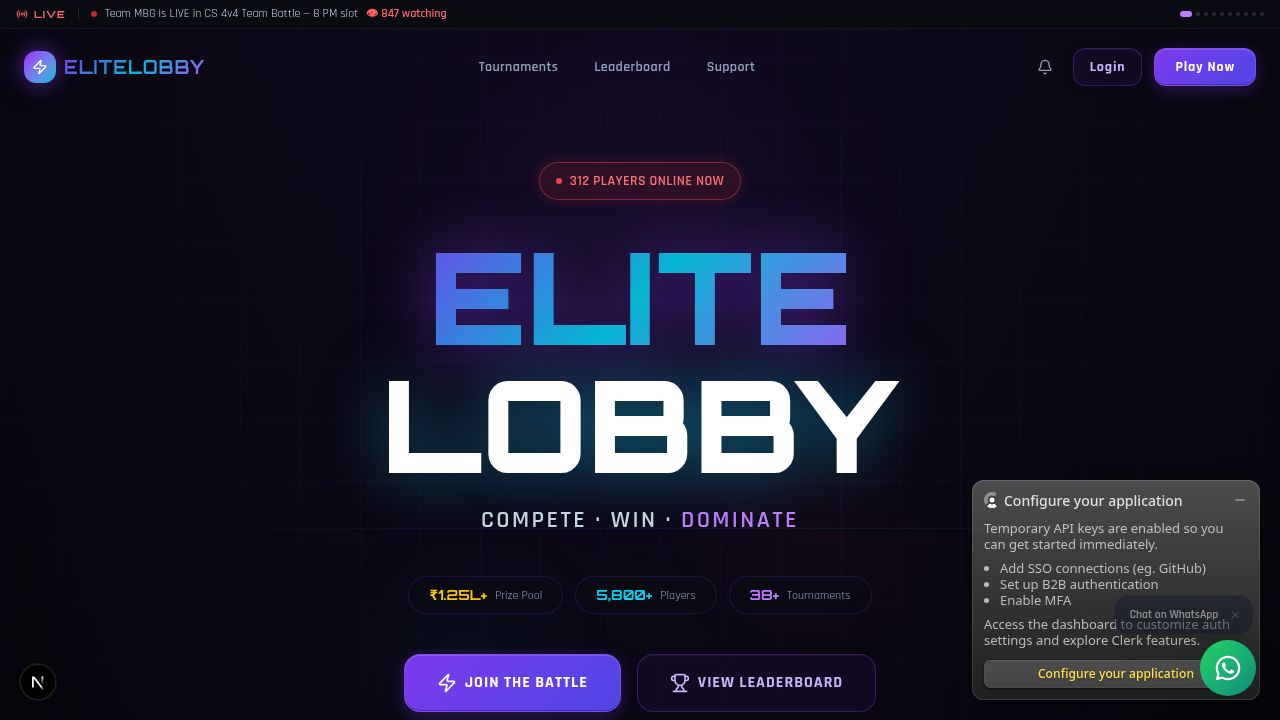
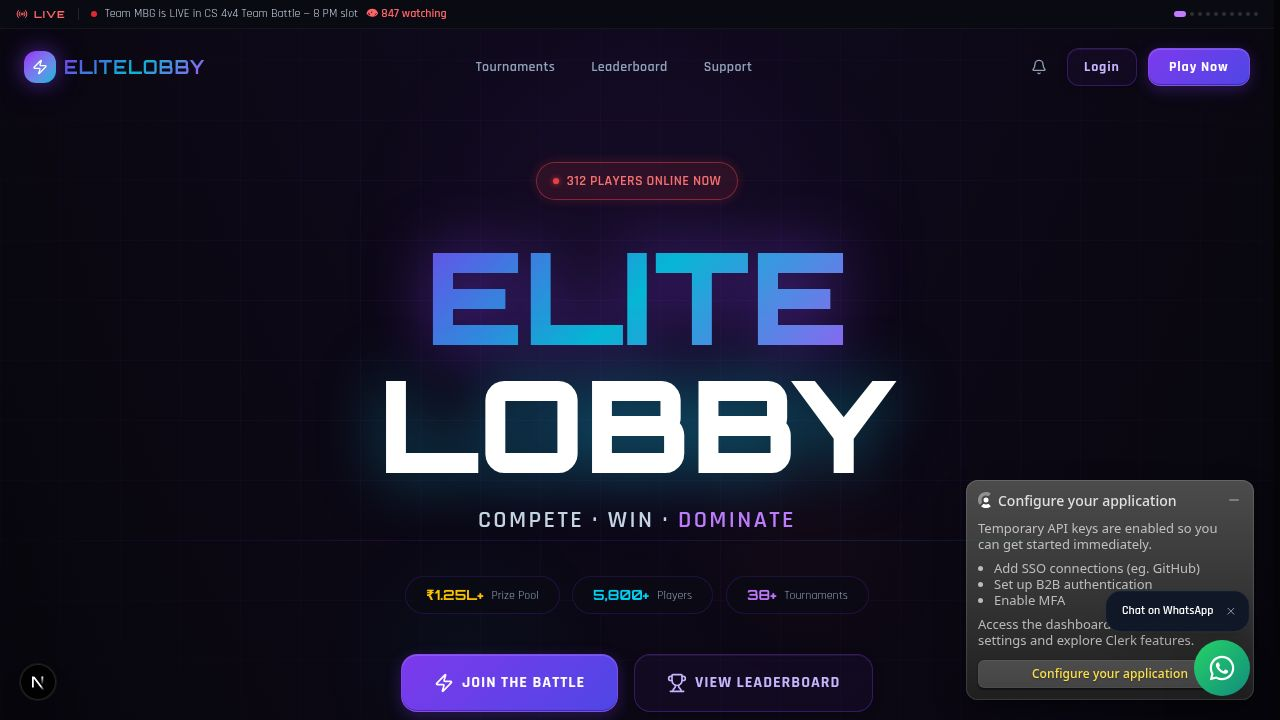
Add a persistent bottom navigation bar with key app sections for mobile users
Removes server-side rendering of unused pages and updates server-side manifest files.

Replit-Commit-Author: Agent
Replit-Commit-Session-Id: f050e24c-d75c-4edb-9f63-7216cc354795
Replit-Commit-Checkpoint-Type: full_checkpoint
Replit-Commit-Event-Id: fd430f37-7e8a-46cd-8ed4-a9f75d9d4e83
Replit-Commit-Screenshot-Url: https://storage.googleapis.com/screenshot-production-us-central1/df9c4afa-6ff7-4396-b7aa-3a1f8a4a83df/f050e24c-d75c-4edb-9f63-7216cc354795/bnQpBMk
Replit-Helium-Checkpoint-Created: true

diff --git a/artifacts/web/.next/server/server-reference-manifest.js b/artifacts/web/.next/server/server-reference-manifest.js
@@ -1,1 +1,1 @@
-self.__RSC_SERVER_MANIFEST="{\n  \"node\": {\n    \"7f4809fc73ec7cae5c56634f16dd6d4afdc243bc9e\": {\n      \"workers\": {\n        \"app/auth/login/[[...login]]/page\": {\n          \"moduleId\": \"[project]/artifacts/web/.next-internal/server/app/auth/login/[[...login]]/page/actions.js { ACTIONS_MODULE0 => \\\"[project]/node_modules/.pnpm/@clerk+nextjs@7.4.0_next@15.5.18_react-dom@19.1.0_react@19.1.0__react@19.1.0__react-dom_410bba7e288442c0eec23071dc87d257/node_modules/@clerk/nextjs/dist/esm/app-router/keyless-actions.js [app-rsc] (ecmascript)\\\", ACTIONS_MODULE1 => \\\"[project]/node_modules/.pnpm/@clerk+nextjs@7.4.0_next@15.5.18_react-dom@19.1.0_react@19.1.0__react@19.1.0__react-dom_410bba7e288442c0eec23071dc87d257/node_modules/@clerk/nextjs/dist/esm/app-router/server-actions.js [app-rsc] (ecmascript)\\\" } [app-rsc] (server actions loader, ecmascript)\",\n          \"async\": false,\n          \"exportedName\": \"createOrReadKeylessAction\",\n          \"filename\": \"node_modules/.pnpm/@clerk+nextjs@7.4.0_next@15.5.18_react-dom@19.1.0_react@19.1.0__react@19.1.0__react-dom_410bba7e288442c0eec23071dc87d257/node_modules/@clerk/nextjs/dist/esm/app-router/keyless-actions.js\"\n        },\n        \"app/page\": {\n          \"moduleId\": \"[project]/artifacts/web/.next-internal/server/app/page/actions.js { ACTIONS_MODULE0 => \\\"[project]/node_modules/.pnpm/@clerk+nextjs@7.4.0_next@15.5.18_react-dom@19.1.0_react@19.1.0__react@19.1.0__react-dom_410bba7e288442c0eec23071dc87d257/node_modules/@clerk/nextjs/dist/esm/app-router/keyless-actions.js [app-rsc] (ecmascript)\\\", ACTIONS_MODULE1 => \\\"[project]/node_modules/.pnpm/@clerk+nextjs@7.4.0_next@15.5.18_react-dom@19.1.0_react@19.1.0__react@19.1.0__react-dom_410bba7e288442c0eec23071dc87d257/node_modules/@clerk/nextjs/dist/esm/app-router/server-actions.js [app-rsc] (ecmascript)\\\" } [app-rsc] (server actions loader, ecmascript)\",\n          \"async\": false,\n          \"exportedName\": \"createOrReadKeylessAction\",\n          \"filename\": \"node_modules/.pnpm/@clerk+nextjs@7.4.0_next@15.5.18_react-dom@19.1.0_react@19.1.0__react@19.1.0__react-dom_410bba7e288442c0eec23071dc87d257/node_modules/@clerk/nextjs/dist/esm/app-router/keyless-actions.js\"\n        },\n        \"app/tournaments/page\": {\n          \"moduleId\": \"[project]/artifacts/web/.next-internal/server/app/tournaments/page/actions.js { ACTIONS_MODULE0 => \\\"[project]/node_modules/.pnpm/@clerk+nextjs@7.4.0_next@15.5.18_react-dom@19.1.0_react@19.1.0__react@19.1.0__react-dom_410bba7e288442c0eec23071dc87d257/node_modules/@clerk/nextjs/dist/esm/app-router/keyless-actions.js [app-rsc] (ecmascript)\\\", ACTIONS_MODULE1 => \\\"[project]/node_modules/.pnpm/@clerk+nextjs@7.4.0_next@15.5.18_react-dom@19.1.0_react@19.1.0__react@19.1.0__react-dom_410bba7e288442c0eec23071dc87d257/node_modules/@clerk/nextjs/dist/esm/app-router/server-actions.js [app-rsc] (ecmascript)\\\" } [app-rsc] (server actions loader, ecmascript)\",\n          \"async\": false,\n          \"exportedName\": \"createOrReadKeylessAction\",\n          \"filename\": \"node_modules/.pnpm/@clerk+nextjs@7.4.0_next@15.5.18_react-dom@19.1.0_react@19.1.0__react@19.1.0__react-dom_410bba7e288442c0eec23071dc87d257/node_modules/@clerk/nextjs/dist/esm/app-router/keyless-actions.js\"\n        }\n      },\n      \"layer\": {\n        \"app/auth/login/[[...login]]/page\": \"action-browser\",\n        \"app/page\": \"action-browser\",\n        \"app/tournaments/page\": \"action-browser\"\n      },\n      \"filename\": \"node_modules/.pnpm/@clerk+nextjs@7.4.0_next@15.5.18_react-dom@19.1.0_react@19.1.0__react@19.1.0__react-dom_410bba7e288442c0eec23071dc87d257/node_modules/@clerk/nextjs/dist/esm/app-router/keyless-actions.js\",\n      \"exportedName\": \"createOrReadKeylessAction\"\n    },\n    \"7f63631ff6cd411d6e5171b1f541bad9819fe227dc\": {\n      \"workers\": {\n        \"app/auth/login/[[...login]]/page\": {\n          \"moduleId\": \"[project]/artifacts/web/.next-internal/server/app/auth/login/[[...login]]/page/actions.js { ACTIONS_MODULE0 => \\\"[project]/node_modules/.pnpm/@clerk+nextjs@7.4.0_next@15.5.18_react-dom@19.1.0_react@19.1.0__react@19.1.0__react-dom_410bba7e288442c0eec23071dc87d257/node_modules/@clerk/nextjs/dist/esm/app-router/keyless-actions.js [app-rsc] (ecmascript)\\\", ACTIONS_MODULE1 => \\\"[project]/node_modules/.pnpm/@clerk+nextjs@7.4.0_next@15.5.18_react-dom@19.1.0_react@19.1.0__react@19.1.0__react-dom_410bba7e288442c0eec23071dc87d257/node_modules/@clerk/nextjs/dist/esm/app-router/server-actions.js [app-rsc] (ecmascript)\\\" } [app-rsc] (server actions loader, ecmascript)\",\n          \"async\": false,\n          \"exportedName\": \"deleteKeylessAction\",\n          \"filename\": \"node_modules/.pnpm/@clerk+nextjs@7.4.0_next@15.5.18_react-dom@19.1.0_react@19.1.0__react@19.1.0__react-dom_410bba7e288442c0eec23071dc87d257/node_modules/@clerk/nextjs/dist/esm/app-router/keyless-actions.js\"\n        },\n        \"app/page\": {\n          \"moduleId\": \"[project]/artifacts/web/.next-internal/server/app/page/actions.js { ACTIONS_MODULE0 => \\\"[project]/node_modules/.pnpm/@clerk+nextjs@7.4.0_next@15.5.18_react-dom@19.1.0_react@19.1.0__react@19.1.0__react-dom_410bba7e288442c0eec23071dc87d257/node_modules/@clerk/nextjs/dist/esm/app-router/keyless-actions.js [app-rsc] (ecmascript)\\\", ACTIONS_MODULE1 => \\\"[project]/node_modules/.pnpm/@clerk+nextjs@7.4.0_next@15.5.18_react-dom@19.1.0_react@19.1.0__react@19.1.0__react-dom_410bba7e288442c0eec23071dc87d257/node_modules/@clerk/nextjs/dist/esm/app-router/server-actions.js [app-rsc] (ecmascript)\\\" } [app-rsc] (server actions loader, ecmascript)\",\n          \"async\": false,\n          \"exportedName\": \"deleteKeylessAction\",\n          \"filename\": \"node_modules/.pnpm/@clerk+nextjs@7.4.0_next@15.5.18_react-dom@19.1.0_react@19.1.0__react@19.1.0__react-dom_410bba7e288442c0eec23071dc87d257/node_modules/@clerk/nextjs/dist/esm/app-router/keyless-actions.js\"\n        },\n        \"app/tournaments/page\": {\n          \"moduleId\": \"[project]/artifacts/web/.next-internal/server/app/tournaments/page/actions.js { ACTIONS_MODULE0 => \\\"[project]/node_modules/.pnpm/@clerk+nextjs@7.4.0_next@15.5.18_react-dom@19.1.0_react@19.1.0__react@19.1.0__react-dom_410bba7e288442c0eec23071dc87d257/node_modules/@clerk/nextjs/dist/esm/app-router/keyless-actions.js [app-rsc] (ecmascript)\\\", ACTIONS_MODULE1 => \\\"[project]/node_modules/.pnpm/@clerk+nextjs@7.4.0_next@15.5.18_react-dom@19.1.0_react@19.1.0__react@19.1.0__react-dom_410bba7e288442c0eec23071dc87d257/node_modules/@clerk/nextjs/dist/esm/app-router/server-actions.js [app-rsc] (ecmascript)\\\" } [app-rsc] (server actions loader, ecmascript)\",\n          \"async\": false,\n          \"exportedName\": \"deleteKeylessAction\",\n          \"filename\": \"node_modules/.pnpm/@clerk+nextjs@7.4.0_next@15.5.18_react-dom@19.1.0_react@19.1.0__react@19.1.0__react-dom_410bba7e288442c0eec23071dc87d257/node_modules/@clerk/nextjs/dist/esm/app-router/keyless-actions.js\"\n        }\n      },\n      \"layer\": {\n        \"app/auth/login/[[...login]]/page\": \"action-browser\",\n        \"app/page\": \"action-browser\",\n        \"app/tournaments/page\": \"action-browser\"\n      },\n      \"filename\": \"node_modules/.pnpm/@clerk+nextjs@7.4.0_next@15.5.18_react-dom@19.1.0_react@19.1.0__react@19.1.0__react-dom_410bba7e288442c0eec23071dc87d257/node_modules/@clerk/nextjs/dist/esm/app-router/keyless-actions.js\",\n      \"exportedName\": \"deleteKeylessAction\"\n    },\n    \"7f7070300340fbf8c9468fd7e1e9e2011878105c48\": {\n      \"workers\": {\n        \"app/auth/login/[[...login]]/page\": {\n          \"moduleId\": \"[project]/artifacts/web/.next-internal/server/app/auth/login/[[...login]]/page/actions.js { ACTIONS_MODULE0 => \\\"[project]/node_modules/.pnpm/@clerk+nextjs@7.4.0_next@15.5.18_react-dom@19.1.0_react@19.1.0__react@19.1.0__react-dom_410bba7e288442c0eec23071dc87d257/node_modules/@clerk/nextjs/dist/esm/app-router/keyless-actions.js [app-rsc] (ecmascript)\\\", ACTIONS_MODULE1 => \\\"[project]/node_modules/.pnpm/@clerk+nextjs@7.4.0_next@15.5.18_react-dom@19.1.0_react@19.1.0__react@19.1.0__react-dom_410bba7e288442c0eec23071dc87d257/node_modules/@clerk/nextjs/dist/esm/app-router/server-actions.js [app-rsc] (ecmascript)\\\" } [app-rsc] (server actions loader, ecmascript)\",\n          \"async\": false,\n          \"exportedName\": \"syncKeylessConfigAction\",\n          \"filename\": \"node_modules/.pnpm/@clerk+nextjs@7.4.0_next@15.5.18_react-dom@19.1.0_react@19.1.0__react@19.1.0__react-dom_410bba7e288442c0eec23071dc87d257/node_modules/@clerk/nextjs/dist/esm/app-router/keyless-actions.js\"\n        },\n        \"app/page\": {\n          \"moduleId\": \"[project]/artifacts/web/.next-internal/server/app/page/actions.js { ACTIONS_MODULE0 => \\\"[project]/node_modules/.pnpm/@clerk+nextjs@7.4.0_next@15.5.18_react-dom@19.1.0_react@19.1.0__react@19.1.0__react-dom_410bba7e288442c0eec23071dc87d257/node_modules/@clerk/nextjs/dist/esm/app-router/keyless-actions.js [app-rsc] (ecmascript)\\\", ACTIONS_MODULE1 => \\\"[project]/node_modules/.pnpm/@clerk+nextjs@7.4.0_next@15.5.18_react-dom@19.1.0_react@19.1.0__react@19.1.0__react-dom_410bba7e288442c0eec23071dc87d257/node_modules/@clerk/nextjs/dist/esm/app-router/server-actions.js [app-rsc] (ecmascript)\\\" } [app-rsc] (server actions loader, ecmascript)\",\n          \"async\": false,\n          \"exportedName\": \"syncKeylessConfigAction\",\n          \"filename\": \"node_modules/.pnpm/@clerk+nextjs@7.4.0_next@15.5.18_react-dom@19.1.0_react@19.1.0__react@19.1.0__react-dom_410bba7e288442c0eec23071dc87d257/node_modules/@clerk/nextjs/dist/esm/app-router/keyless-actions.js\"\n        },\n        \"app/tournaments/page\": {\n          \"moduleId\": \"[project]/artifacts/web/.next-internal/server/app/tournaments/page/actions.js { ACTIONS_MODULE0 => \\\"[project]/node_modules/.pnpm/@clerk+nextjs@7.4.0_next@15.5.18_react-dom@19.1.0_react@19.1.0__react@19.1.0__react-dom_410bba7e288442c0eec23071dc87d257/node_modules/@clerk/nextjs/dist/esm/app-router/keyless-actions.js [app-rsc] (ecmascript)\\\", ACTIONS_MODULE1 => \\\"[project]/node_modules/.pnpm/@clerk+nextjs@7.4.0_next@15.5.18_react-dom@19.1.0_react@19.1.0__react@19.1.0__react-dom_410bba7e288442c0eec23071dc87d257/node_modules/@clerk/nextjs/dist/esm/app-router/server-actions.js [app-rsc] (ecmascript)\\\" } [app-rsc] (server actions loader, ecmascript)\",\n          \"async\": false,\n          \"exportedName\": \"syncKeylessConfigAction\",\n          \"filename\": \"node_modules/.pnpm/@clerk+nextjs@7.4.0_next@15.5.18_react-dom@19.1.0_react@19.1.0__react@19.1.0__react-dom_410bba7e288442c0eec23071dc87d257/node_modules/@clerk/nextjs/dist/esm/app-router/keyless-actions.js\"\n        }\n      },\n      \"layer\": {\n        \"app/auth/login/[[...login]]/page\": \"action-browser\",\n        \"app/page\": \"action-browser\",\n        \"app/tournaments/page\": \"action-browser\"\n      },\n      \"filename\": \"node_modules/.pnpm/@clerk+nextjs@7.4.0_next@15.5.18_react-dom@19.1.0_react@19.1.0__react@19.1.0__react-dom_410bba7e288442c0eec23071dc87d257/node_modules/@clerk/nextjs/dist/esm/app-router/keyless-actions.js\",\n      \"exportedName\": \"syncKeylessConfigAction\"\n    },\n    \"7fafc7a8a5be1ca584322e0f37894600148fbf4460\": {\n      \"workers\": {\n        \"app/auth/login/[[...login]]/page\": {\n          \"moduleId\": \"[project]/artifacts/web/.next-internal/server/app/auth/login/[[...login]]/page/actions.js { ACTIONS_MODULE0 => \\\"[project]/node_modules/.pnpm/@clerk+nextjs@7.4.0_next@15.5.18_react-dom@19.1.0_react@19.1.0__react@19.1.0__react-dom_410bba7e288442c0eec23071dc87d257/node_modules/@clerk/nextjs/dist/esm/app-router/keyless-actions.js [app-rsc] (ecmascript)\\\", ACTIONS_MODULE1 => \\\"[project]/node_modules/.pnpm/@clerk+nextjs@7.4.0_next@15.5.18_react-dom@19.1.0_react@19.1.0__react@19.1.0__react-dom_410bba7e288442c0eec23071dc87d257/node_modules/@clerk/nextjs/dist/esm/app-router/server-actions.js [app-rsc] (ecmascript)\\\" } [app-rsc] (server actions loader, ecmascript)\",\n          \"async\": false,\n          \"exportedName\": \"invalidateCacheAction\",\n          \"filename\": \"node_modules/.pnpm/@clerk+nextjs@7.4.0_next@15.5.18_react-dom@19.1.0_react@19.1.0__react@19.1.0__react-dom_410bba7e288442c0eec23071dc87d257/node_modules/@clerk/nextjs/dist/esm/app-router/server-actions.js\"\n        },\n        \"app/page\": {\n          \"moduleId\": \"[project]/artifacts/web/.next-internal/server/app/page/actions.js { ACTIONS_MODULE0 => \\\"[project]/node_modules/.pnpm/@clerk+nextjs@7.4.0_next@15.5.18_react-dom@19.1.0_react@19.1.0__react@19.1.0__react-dom_410bba7e288442c0eec23071dc87d257/node_modules/@clerk/nextjs/dist/esm/app-router/keyless-actions.js [app-rsc] (ecmascript)\\\", ACTIONS_MODULE1 => \\\"[project]/node_modules/.pnpm/@clerk+nextjs@7.4.0_next@15.5.18_react-dom@19.1.0_react@19.1.0__react@19.1.0__react-dom_410bba7e288442c0eec23071dc87d257/node_modules/@clerk/nextjs/dist/esm/app-router/server-actions.js [app-rsc] (ecmascript)\\\" } [app-rsc] (server actions loader, ecmascript)\",\n          \"async\": false,\n          \"exportedName\": \"invalidateCacheAction\",\n          \"filename\": \"node_modules/.pnpm/@clerk+nextjs@7.4.0_next@15.5.18_react-dom@19.1.0_react@19.1.0__react@19.1.0__react-dom_410bba7e288442c0eec23071dc87d257/node_modules/@clerk/nextjs/dist/esm/app-router/server-actions.js\"\n        },\n        \"app/tournaments/page\": {\n          \"moduleId\": \"[project]/artifacts/web/.next-internal/server/app/tournaments/page/actions.js { ACTIONS_MODULE0 => \\\"[project]/node_modules/.pnpm/@clerk+nextjs@7.4.0_next@15.5.18_react-dom@19.1.0_react@19.1.0__react@19.1.0__react-dom_410bba7e288442c0eec23071dc87d257/node_modules/@clerk/nextjs/dist/esm/app-router/keyless-actions.js [app-rsc] (ecmascript)\\\", ACTIONS_MODULE1 => \\\"[project]/node_modules/.pnpm/@clerk+nextjs@7.4.0_next@15.5.18_react-dom@19.1.0_react@19.1.0__react@19.1.0__react-dom_410bba7e288442c0eec23071dc87d257/node_modules/@clerk/nextjs/dist/esm/app-router/server-actions.js [app-rsc] (ecmascript)\\\" } [app-rsc] (server actions loader, ecmascript)\",\n          \"async\": false,\n          \"exportedName\": \"invalidateCacheAction\",\n          \"filename\": \"node_modules/.pnpm/@clerk+nextjs@7.4.0_next@15.5.18_react-dom@19.1.0_react@19.1.0__react@19.1.0__react-dom_410bba7e288442c0eec23071dc87d257/node_modules/@clerk/nextjs/dist/esm/app-router/server-actions.js\"\n        }\n      },\n      \"layer\": {\n        \"app/auth/login/[[...login]]/page\": \"action-browser\",\n        \"app/page\": \"action-browser\",\n        \"app/tournaments/page\": \"action-browser\"\n      },\n      \"filename\": \"node_modules/.pnpm/@clerk+nextjs@7.4.0_next@15.5.18_react-dom@19.1.0_react@19.1.0__react@19.1.0__react-dom_410bba7e288442c0eec23071dc87d257/node_modules/@clerk/nextjs/dist/esm/app-router/server-actions.js\",\n      \"exportedName\": \"invalidateCacheAction\"\n    }\n  },\n  \"edge\": {},\n  \"encryptionKey\": \"yDQAT+iw1BmiRHndtIAp7cRz/H0PmOc8cFQJC22c+pw=\"\n}"
+self.__RSC_SERVER_MANIFEST="{\n  \"node\": {\n    \"7f4809fc73ec7cae5c56634f16dd6d4afdc243bc9e\": {\n      \"workers\": {\n        \"app/page\": {\n          \"moduleId\": \"[project]/artifacts/web/.next-internal/server/app/page/actions.js { ACTIONS_MODULE0 => \\\"[project]/node_modules/.pnpm/@clerk+nextjs@7.4.0_next@15.5.18_react-dom@19.1.0_react@19.1.0__react@19.1.0__react-dom_410bba7e288442c0eec23071dc87d257/node_modules/@clerk/nextjs/dist/esm/app-router/keyless-actions.js [app-rsc] (ecmascript)\\\", ACTIONS_MODULE1 => \\\"[project]/node_modules/.pnpm/@clerk+nextjs@7.4.0_next@15.5.18_react-dom@19.1.0_react@19.1.0__react@19.1.0__react-dom_410bba7e288442c0eec23071dc87d257/node_modules/@clerk/nextjs/dist/esm/app-router/server-actions.js [app-rsc] (ecmascript)\\\" } [app-rsc] (server actions loader, ecmascript)\",\n          \"async\": false,\n          \"exportedName\": \"createOrReadKeylessAction\",\n          \"filename\": \"node_modules/.pnpm/@clerk+nextjs@7.4.0_next@15.5.18_react-dom@19.1.0_react@19.1.0__react@19.1.0__react-dom_410bba7e288442c0eec23071dc87d257/node_modules/@clerk/nextjs/dist/esm/app-router/keyless-actions.js\"\n        }\n      },\n      \"layer\": {\n        \"app/page\": \"action-browser\"\n      },\n      \"filename\": \"node_modules/.pnpm/@clerk+nextjs@7.4.0_next@15.5.18_react-dom@19.1.0_react@19.1.0__react@19.1.0__react-dom_410bba7e288442c0eec23071dc87d257/node_modules/@clerk/nextjs/dist/esm/app-router/keyless-actions.js\",\n      \"exportedName\": \"createOrReadKeylessAction\"\n    },\n    \"7f63631ff6cd411d6e5171b1f541bad9819fe227dc\": {\n      \"workers\": {\n        \"app/page\": {\n          \"moduleId\": \"[project]/artifacts/web/.next-internal/server/app/page/actions.js { ACTIONS_MODULE0 => \\\"[project]/node_modules/.pnpm/@clerk+nextjs@7.4.0_next@15.5.18_react-dom@19.1.0_react@19.1.0__react@19.1.0__react-dom_410bba7e288442c0eec23071dc87d257/node_modules/@clerk/nextjs/dist/esm/app-router/keyless-actions.js [app-rsc] (ecmascript)\\\", ACTIONS_MODULE1 => \\\"[project]/node_modules/.pnpm/@clerk+nextjs@7.4.0_next@15.5.18_react-dom@19.1.0_react@19.1.0__react@19.1.0__react-dom_410bba7e288442c0eec23071dc87d257/node_modules/@clerk/nextjs/dist/esm/app-router/server-actions.js [app-rsc] (ecmascript)\\\" } [app-rsc] (server actions loader, ecmascript)\",\n          \"async\": false,\n          \"exportedName\": \"deleteKeylessAction\",\n          \"filename\": \"node_modules/.pnpm/@clerk+nextjs@7.4.0_next@15.5.18_react-dom@19.1.0_react@19.1.0__react@19.1.0__react-dom_410bba7e288442c0eec23071dc87d257/node_modules/@clerk/nextjs/dist/esm/app-router/keyless-actions.js\"\n        }\n      },\n      \"layer\": {\n        \"app/page\": \"action-browser\"\n      },\n      \"filename\": \"node_modules/.pnpm/@clerk+nextjs@7.4.0_next@15.5.18_react-dom@19.1.0_react@19.1.0__react@19.1.0__react-dom_410bba7e288442c0eec23071dc87d257/node_modules/@clerk/nextjs/dist/esm/app-router/keyless-actions.js\",\n      \"exportedName\": \"deleteKeylessAction\"\n    },\n    \"7f7070300340fbf8c9468fd7e1e9e2011878105c48\": {\n      \"workers\": {\n        \"app/page\": {\n          \"moduleId\": \"[project]/artifacts/web/.next-internal/server/app/page/actions.js { ACTIONS_MODULE0 => \\\"[project]/node_modules/.pnpm/@clerk+nextjs@7.4.0_next@15.5.18_react-dom@19.1.0_react@19.1.0__react@19.1.0__react-dom_410bba7e288442c0eec23071dc87d257/node_modules/@clerk/nextjs/dist/esm/app-router/keyless-actions.js [app-rsc] (ecmascript)\\\", ACTIONS_MODULE1 => \\\"[project]/node_modules/.pnpm/@clerk+nextjs@7.4.0_next@15.5.18_react-dom@19.1.0_react@19.1.0__react@19.1.0__react-dom_410bba7e288442c0eec23071dc87d257/node_modules/@clerk/nextjs/dist/esm/app-router/server-actions.js [app-rsc] (ecmascript)\\\" } [app-rsc] (server actions loader, ecmascript)\",\n          \"async\": false,\n          \"exportedName\": \"syncKeylessConfigAction\",\n          \"filename\": \"node_modules/.pnpm/@clerk+nextjs@7.4.0_next@15.5.18_react-dom@19.1.0_react@19.1.0__react@19.1.0__react-dom_410bba7e288442c0eec23071dc87d257/node_modules/@clerk/nextjs/dist/esm/app-router/keyless-actions.js\"\n        }\n      },\n      \"layer\": {\n        \"app/page\": \"action-browser\"\n      },\n      \"filename\": \"node_modules/.pnpm/@clerk+nextjs@7.4.0_next@15.5.18_react-dom@19.1.0_react@19.1.0__react@19.1.0__react-dom_410bba7e288442c0eec23071dc87d257/node_modules/@clerk/nextjs/dist/esm/app-router/keyless-actions.js\",\n      \"exportedName\": \"syncKeylessConfigAction\"\n    },\n    \"7fafc7a8a5be1ca584322e0f37894600148fbf4460\": {\n      \"workers\": {\n        \"app/page\": {\n          \"moduleId\": \"[project]/artifacts/web/.next-internal/server/app/page/actions.js { ACTIONS_MODULE0 => \\\"[project]/node_modules/.pnpm/@clerk+nextjs@7.4.0_next@15.5.18_react-dom@19.1.0_react@19.1.0__react@19.1.0__react-dom_410bba7e288442c0eec23071dc87d257/node_modules/@clerk/nextjs/dist/esm/app-router/keyless-actions.js [app-rsc] (ecmascript)\\\", ACTIONS_MODULE1 => \\\"[project]/node_modules/.pnpm/@clerk+nextjs@7.4.0_next@15.5.18_react-dom@19.1.0_react@19.1.0__react@19.1.0__react-dom_410bba7e288442c0eec23071dc87d257/node_modules/@clerk/nextjs/dist/esm/app-router/server-actions.js [app-rsc] (ecmascript)\\\" } [app-rsc] (server actions loader, ecmascript)\",\n          \"async\": false,\n          \"exportedName\": \"invalidateCacheAction\",\n          \"filename\": \"node_modules/.pnpm/@clerk+nextjs@7.4.0_next@15.5.18_react-dom@19.1.0_react@19.1.0__react@19.1.0__react-dom_410bba7e288442c0eec23071dc87d257/node_modules/@clerk/nextjs/dist/esm/app-router/server-actions.js\"\n        }\n      },\n      \"layer\": {\n        \"app/page\": \"action-browser\"\n      },\n      \"filename\": \"node_modules/.pnpm/@clerk+nextjs@7.4.0_next@15.5.18_react-dom@19.1.0_react@19.1.0__react@19.1.0__react-dom_410bba7e288442c0eec23071dc87d257/node_modules/@clerk/nextjs/dist/esm/app-router/server-actions.js\",\n      \"exportedName\": \"invalidateCacheAction\"\n    }\n  },\n  \"edge\": {},\n  \"encryptionKey\": \"yDQAT+iw1BmiRHndtIAp7cRz/H0PmOc8cFQJC22c+pw=\"\n}"